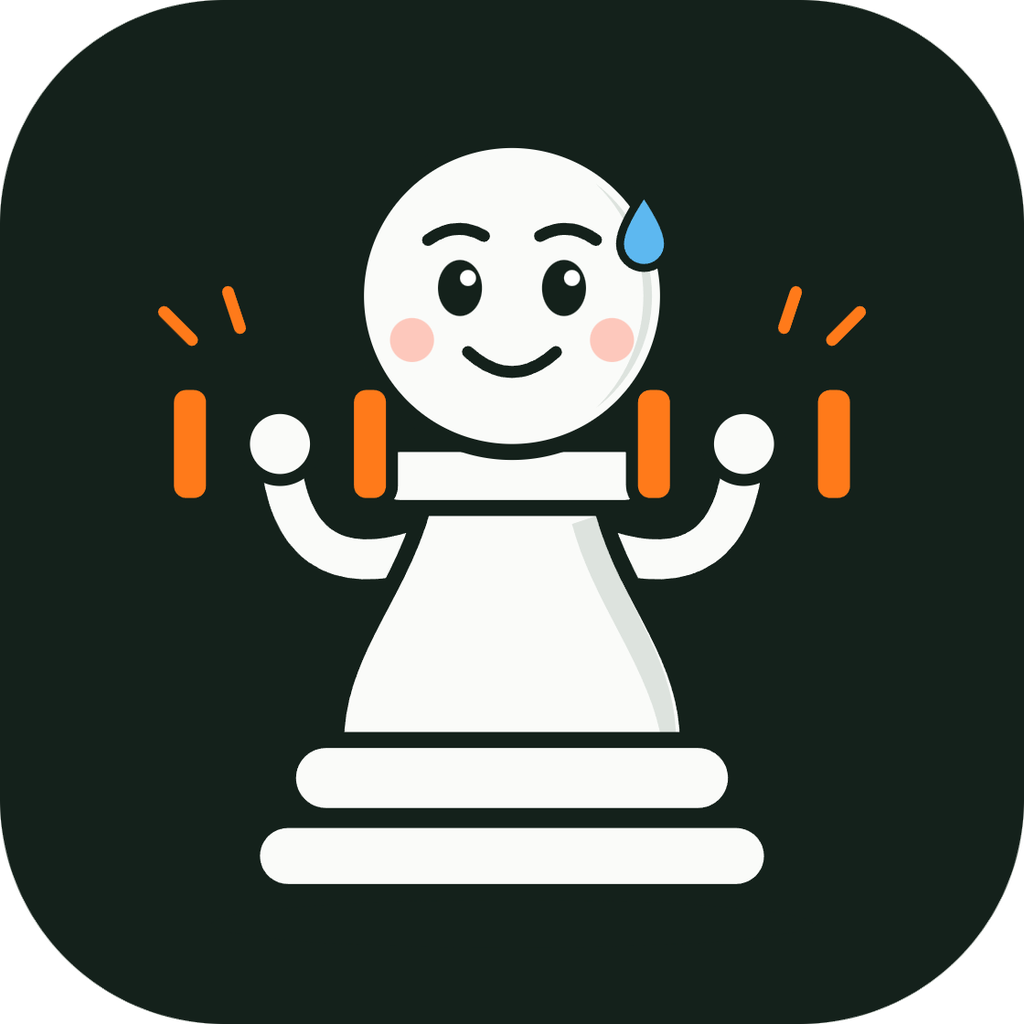
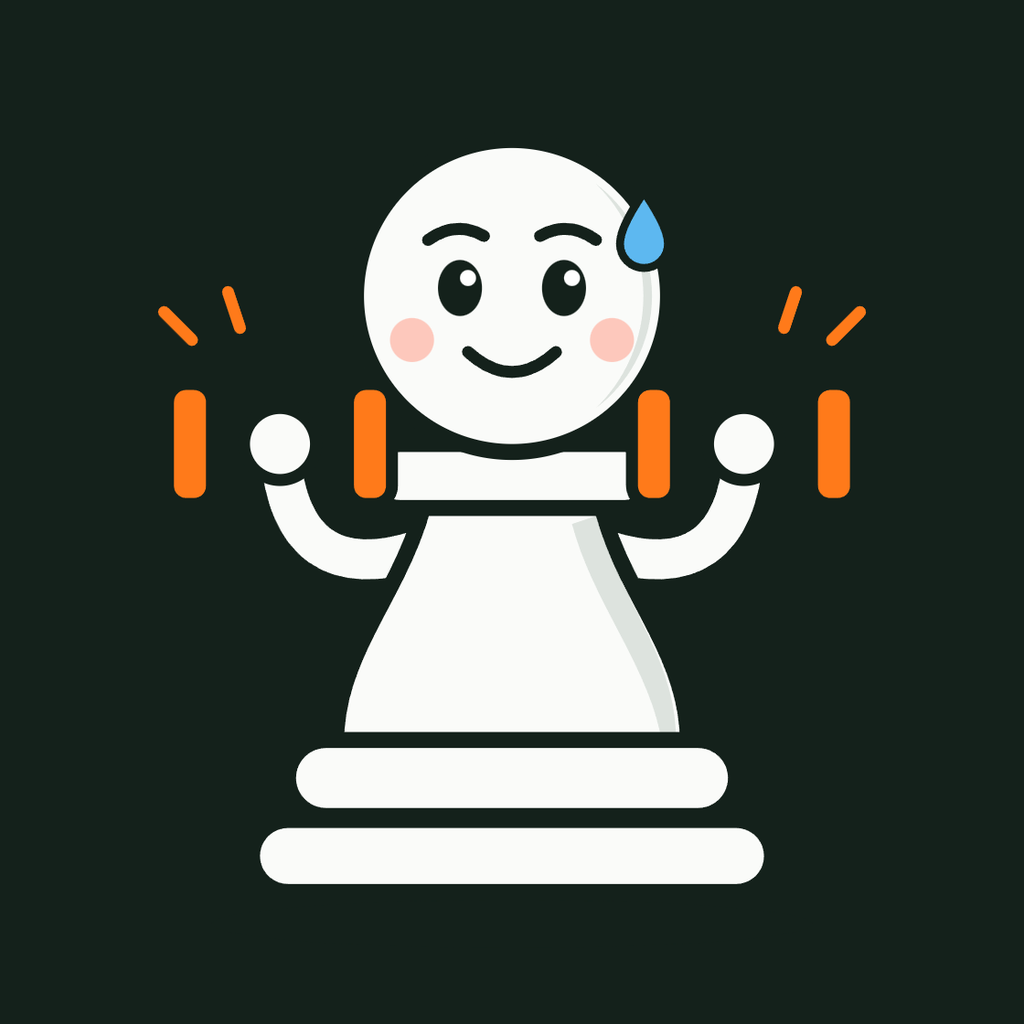
T00: entrada animada na tela inicial
- O mascote surge subindo e crescendo de leve; em seguida entram o nome do app e a frase, em sequência. Com animações reduzidas no sistema, a tela abre pronta.
- Fundo da abertura nativa igual ao da tela inicial (claro e escuro), para a abertura não piscar.
- Mascote escuro sem o contorno do bloco arredondado.
- Nova chave de tradução homeTagline (inglês e português).

Claude-Session: https://claude.ai/code/session_01P1nB2fLQ2akGX2qc6rDPXF

diff --git a/lib/ui/home/widgets/home_screen.dart b/lib/ui/home/widgets/home_screen.dart
@@ -3,26 +3,138 @@ import 'package:flutter/material.dart';
 import '../../core/keys/home_keys.dart';
 import '../../core/l10n/l10n.dart';
 
-class HomeScreen extends StatelessWidget {
+class HomeScreen extends StatefulWidget {
   const HomeScreen({super.key});
 
   @override
+  State<HomeScreen> createState() => _HomeScreenState();
+}
+
+class _HomeScreenState extends State<HomeScreen>
+    with SingleTickerProviderStateMixin {
+  late final _entrance = AnimationController(
+    vsync: this,
+    duration: const Duration(milliseconds: 1400),
+  );
+
+  // Entrada em sequência: o mascote primeiro, depois o nome e a frase.
+  late final _mascot = _stage(0, 0.6);
+  late final _title = _stage(0.35, 0.8);
+  late final _tagline = _stage(0.55, 1);
+
+  CurvedAnimation _stage(double begin, double end) {
+    return CurvedAnimation(
+      parent: _entrance,
+      curve: Interval(begin, end, curve: Curves.easeOutCubic),
+    );
+  }
+
+  @override
+  void didChangeDependencies() {
+    super.didChangeDependencies();
+    // Quem pediu menos movimento ao sistema vê a tela pronta, sem animação.
+    if (MediaQuery.disableAnimationsOf(context)) {
+      _entrance.value = 1;
+    } else if (_entrance.isDismissed) {
+      _entrance.forward();
+    }
+  }
+
+  @override
+  void dispose() {
+    _mascot.dispose();
+    _title.dispose();
+    _tagline.dispose();
+    _entrance.dispose();
+    super.dispose();
+  }
+
+  @override
   Widget build(BuildContext context) {
-    final isDark = Theme.of(context).brightness == Brightness.dark;
+    final theme = Theme.of(context);
+    final isDark = theme.brightness == Brightness.dark;
     return Scaffold(
       key: HomeKeys.screen,
       body: SafeArea(
         child: Center(
-          child: FractionallySizedBox(
-            widthFactor: 0.6,
-            child: Image.asset(
-              isDark
-                  ? 'assets/branding/mascot_dark.png'
-                  : 'assets/branding/mascot_light.png',
-              key: HomeKeys.mascot,
-              semanticLabel: context.l10n.homeMascotLabel,
+          child: SingleChildScrollView(
+            padding: const EdgeInsets.symmetric(horizontal: 24, vertical: 32),
+            child: Column(
+              mainAxisSize: MainAxisSize.min,
+              children: [
+                _Entrance(
+                  animation: _mascot,
+                  scaleFrom: 0.9,
+                  child: FractionallySizedBox(
+                    widthFactor: 0.6,
+                    child: Image.asset(
+                      isDark
+                          ? 'assets/branding/mascot_dark.png'
+                          : 'assets/branding/mascot_light.png',
+                      key: HomeKeys.mascot,
+                      semanticLabel: context.l10n.homeMascotLabel,
+                    ),
+                  ),
+                ),
+                const SizedBox(height: 32),
+                _Entrance(
+                  animation: _title,
+                  child: Text(
+                    context.l10n.appTitle,
+                    key: HomeKeys.title,
+                    textAlign: TextAlign.center,
+                    style: theme.textTheme.displaySmall?.copyWith(
+                      fontWeight: FontWeight.w700,
+                      letterSpacing: 1.5,
+                    ),
+                  ),
+                ),
+                const SizedBox(height: 8),
+                _Entrance(
+                  animation: _tagline,
+                  child: Text(
+                    context.l10n.homeTagline,
+                    key: HomeKeys.tagline,
+                    textAlign: TextAlign.center,
+                    style: theme.textTheme.titleMedium?.copyWith(
+                      color: theme.colorScheme.onSurfaceVariant,
+                      letterSpacing: 0.4,
+                    ),
+                  ),
+                ),
+              ],
             ),
           ),
+        ),
+      ),
+    );
+  }
+}
+
+/// Surge subindo de leve; com [scaleFrom], também cresce até o tamanho final.
+class _Entrance extends StatelessWidget {
+  const _Entrance({
+    required this.animation,
+    required this.child,
+    this.scaleFrom = 1,
+  });
+
+  final Animation<double> animation;
+  final Widget child;
+  final double scaleFrom;
+
+  @override
+  Widget build(BuildContext context) {
+    return FadeTransition(
+      opacity: animation,
+      child: SlideTransition(
+        position: Tween(
+          begin: const Offset(0, 0.12),
+          end: Offset.zero,
+        ).animate(animation),
+        child: ScaleTransition(
+          scale: Tween(begin: scaleFrom, end: 1.0).animate(animation),
+          child: child,
         ),
       ),
     );

diff --git a/test/ui/home/widgets/home_screen_test.dart b/test/ui/home/widgets/home_screen_test.dart
@@ -11,6 +11,15 @@ void main() {
     return (image.image as AssetImage).assetName;
   }
 
+  double opacityOf(WidgetTester tester, Key key) {
+    final fade = tester.widget<FadeTransition>(
+      find
+          .ancestor(of: find.byKey(key), matching: find.byType(FadeTransition))
+          .first,
+    );
+    return fade.opacity.value;
+  }
+
   testWidgets('mostra o mascote claro no tema claro', (tester) async {
     await tester.pumpWidget(const TestApp(child: HomeScreen()));
 
@@ -28,10 +37,60 @@ void main() {
 
   testWidgets('descreve o mascote para o leitor de tela', (tester) async {
     await tester.pumpWidget(const TestApp(child: HomeScreen()));
+    await tester.pumpAndSettle();
 
     expect(
       find.bySemanticsLabel('Lucena mascot: a chess pawn lifting dumbbells'),
       findsOneWidget,
     );
+  });
+
+  testWidgets('mostra o nome do app e a frase no idioma da tela', (
+    tester,
+  ) async {
+    await tester.pumpWidget(
+      const TestApp(locale: Locale('pt'), child: HomeScreen()),
+    );
+    await tester.pumpAndSettle();
+
+    expect(tester.widget<Text>(find.byKey(HomeKeys.title)).data, 'Lucena');
+    expect(
+      tester.widget<Text>(find.byKey(HomeKeys.tagline)).data,
+      'Treino de finais de xadrez',
+    );
+  });
+
+  testWidgets('entra em sequência: mascote, depois nome, depois frase', (
+    tester,
+  ) async {
+    await tester.pumpWidget(const TestApp(child: HomeScreen()));
+
+    expect(opacityOf(tester, HomeKeys.mascot), 0);
+    expect(opacityOf(tester, HomeKeys.title), 0);
+    expect(opacityOf(tester, HomeKeys.tagline), 0);
+
+    await tester.pump(const Duration(milliseconds: 450));
+
+    expect(opacityOf(tester, HomeKeys.mascot), greaterThan(0));
+    expect(opacityOf(tester, HomeKeys.tagline), 0);
+
+    await tester.pumpAndSettle();
+
+    expect(opacityOf(tester, HomeKeys.mascot), 1);
+    expect(opacityOf(tester, HomeKeys.title), 1);
+    expect(opacityOf(tester, HomeKeys.tagline), 1);
+  });
+
+  testWidgets('com animações reduzidas no sistema a tela já abre pronta', (
+    tester,
+  ) async {
+    tester.platformDispatcher.accessibilityFeaturesTestValue =
+        const FakeAccessibilityFeatures(disableAnimations: true);
+    addTearDown(tester.platformDispatcher.clearAccessibilityFeaturesTestValue);
+
+    await tester.pumpWidget(const TestApp(child: HomeScreen()));
+
+    expect(opacityOf(tester, HomeKeys.mascot), 1);
+    expect(opacityOf(tester, HomeKeys.tagline), 1);
   });
 }

diff --git a/lib/ui/core/keys/home_keys.dart b/lib/ui/core/keys/home_keys.dart
@@ -3,4 +3,6 @@ import 'package:flutter/widgets.dart';
 abstract final class HomeKeys {
   static const screen = Key('home.screen');
   static const mascot = Key('home.mascot');
+  static const title = Key('home.title');
+  static const tagline = Key('home.tagline');
 }

diff --git a/tools/make_brand_assets.py b/tools/make_brand_assets.py
@@ -33,6 +33,16 @@ dark, dark_rgb = cut(tile_bbox(1340, 2540), 'mascot_dark')
 side = dark.size[0]
 full = Image.new('RGBA', dark.size, dark_rgb + (255,))
 full.alpha_composite(dark)
+# The dark tile has the same colour as the dark app background: the in-app mascot
+# is saved full-bleed, with the tile edge (anti-aliased border and rounded corners)
+# painted over, so no outline shows on screen. The corner squares hold nothing else.
+on_screen = full.copy()
+draw = ImageDraw.Draw(on_screen)
+radius = next(x for x in range(side) if dark.getpixel((x, 0))[3] == 255) + 8
+for x0, y0 in [(0, 0), (side - radius, 0), (0, side - radius), (side - radius, side - radius)]:
+    draw.rectangle((x0, y0, x0 + radius - 1, y0 + radius - 1), fill=dark_rgb + (255,))
+draw.rectangle((0, 0, side - 1, side - 1), outline=dark_rgb + (255,), width=8)
+on_screen.resize((1024, 1024), Image.LANCZOS).save('assets/branding/mascot_dark.png')
 full.convert('RGB').resize((1024, 1024), Image.LANCZOS).save('assets/branding/launcher_icon.png')
 pad = int(side * 1.5)
 fg = Image.new('RGBA', (pad, pad), dark_rgb + (255,))
